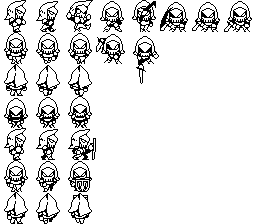
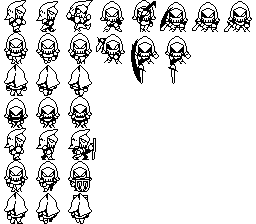
combat mode attack animations first pass

Changed region(s): [[0.625, 0.1562, 0.75, 0.375], [0.5, 0.1875, 0.5625, 0.375]]

diff --git a/src/lib/input.py b/src/lib/input.py
@@ -1,18 +1,77 @@
+_buttons = {}
 _controls = {}
+timings = {}
+
+BUTTON_LEFT = "left"
+BUTTON_RIGHT = "right"
+BUTTON_UP = "up"
+BUTTON_DOWN = "down"
+BUTTON_A = "a"
+BUTTON_B = "b"
+BUTTON_X = "x"
+BUTTON_Y = "y"
+BUTTON_L = "l"
+BUTTON_R = "r"
+BUTTON_START = "start"
+BUTTON_SELECT = "select"
+
+CONTROLS_CONFIRM = "confirm"
+CONTROLS_CANCEL = "cancel"
+CONTROLS_MANAGE = "manage"
+CONTROLS_RUN = "run"
+CONTROLS_TURN = "turn"
+CONTROLS_ITEM = "item"
+CONTROLS_WAIT = "wait"
+CONTROLS_SHORTCUT = "shortcut"
+CONTROLS_ALLY = "ally"
+CONTROLS_SKILL = "skill"
+CONTROLS_INVENTORY = "inventory"
+CONTROLS_PAUSE = "pause"
+CONTROLS_MINIMAP = "minimap"
+
 ARROW_DELTAS = {
-  "left": (-1, 0),
-  "right": (1, 0),
-  "up": (0, -1),
-  "down": (0, 1),
+  BUTTON_LEFT: (-1, 0),
+  BUTTON_RIGHT: (1, 0),
+  BUTTON_UP: (0, -1),
+  BUTTON_DOWN: (0, 1),
 }
 
-def config(controls):
-  global _controls
-  _controls = controls
+def config(buttons=None, controls=None):
+  global _buttons, _controls
+  _buttons = buttons or _buttons
+  _controls = controls or _controls
 
 def resolve_button(button):
-  return _controls[button] if button in _controls else None
+  return next((k for k, bs in _buttons.items() if button in bs), None)
 
 def resolve_delta(button):
   button = resolve_button(button)
   return ARROW_DELTAS[button] if button in ARROW_DELTAS else None
+
+def handle_press(button):
+  button = resolve_button(button)
+  if button is not None and button not in timings:
+    timings[button] = 1
+
+def handle_release(button):
+  button = resolve_button(button)
+  if button is not None:
+    del timings[button]
+
+def get_state(control):
+  if type(control) is list:
+    button = None
+    for button in _controls[control]:
+      if not get_state(button):
+        return 0
+    else:
+      if button:
+        return get_state(button)
+      else:
+        return 0
+  else:
+    return timings[control] if control in timings else 0
+
+def update():
+  for button in timings:
+    timings[button] += 1

diff --git a/src/contexts/combat.py b/src/contexts/combat.py
@@ -7,6 +7,7 @@ from contexts.dungeon.camera import Camera
 from contexts.explore.stageview import StageView
 from tiles import Tile
 from anims.move import MoveAnim
+from anims.attack import AttackAnim
 from anims.step import StepAnim
 from config import WINDOW_SIZE
 
@@ -60,20 +61,40 @@ class CombatContext(Context):
       ctx.hero.pos = hero_dest
 
   def handle_press(ctx, button):
-    if button and ctx.stage_view.anims:
+    if ctx.stage_view.anims:
       return
 
     delta = input.resolve_delta(button)
     if delta:
       return ctx.handle_move(delta)
 
+    button = input.resolve_button(button)
+    if input.get_state(button) > 1:
+      return
+
+    if button == input.BUTTON_A:
+      return ctx.handle_attack()
+
   def handle_move(ctx, delta):
-    return ctx.move(ctx.hero, delta)
+    moved = ctx.move(ctx.hero, delta)
+    if moved:
+      return True
+    else:
+      ctx.hero.facing = delta
+      return False
 
   def move(ctx, actor, delta):
     target_cell = vector.add(actor.cell, delta)
+
     target_tile = ctx.stage.get_tile_at(target_cell)
     if Tile.is_solid(target_tile):
+      return False
+
+    target_elem = (
+      next((e for e in ctx.stage.get_elems_at(target_cell) if e.solid), None)
+      or next((e for e in ctx.stage.get_elems_at(target_cell)), None)
+    )
+    if target_elem and target_elem.solid:
       return False
 
     ctx.stage_view.anims.append([StepAnim(
@@ -82,3 +103,18 @@ class CombatContext(Context):
       dest=target_cell,
     )])
     actor.cell = target_cell
+    return True
+
+  def handle_attack(ctx):
+    attack_delay = (ctx.hero.core.AttackAnim.frames_duration[0]
+      if "AttackAnim" in dir(ctx.hero.core) and ctx.hero.facing == (0, 1)
+      else 0
+    )
+    ctx.stage_view.anims.append([AttackAnim(
+      target=ctx.hero,
+      delay=attack_delay,
+      src=ctx.hero.cell,
+      dest=vector.add(ctx.hero.cell, ctx.hero.facing),
+    )])
+    ctx.hero.attack()
+    return True

diff --git a/src/contexts/explore/__init__.py b/src/contexts/explore/__init__.py
@@ -11,16 +11,37 @@ from dungeon.actors import DungeonActor
 from tiles import Tile
 from config import WINDOW_SIZE
 
-input.config({
-  pygame.K_w: "up",
-  pygame.K_a: "left",
-  pygame.K_s: "down",
-  pygame.K_d: "right",
-  pygame.K_UP: "up",
-  pygame.K_LEFT: "left",
-  pygame.K_DOWN: "down",
-  pygame.K_RIGHT: "right",
-})
+input.config(
+  buttons={
+    input.BUTTON_UP: [pygame.K_UP, pygame.K_w],
+    input.BUTTON_LEFT: [pygame.K_LEFT, pygame.K_a],
+    input.BUTTON_DOWN: [pygame.K_DOWN, pygame.K_s],
+    input.BUTTON_RIGHT: [pygame.K_RIGHT, pygame.K_d],
+    input.BUTTON_A: [pygame.K_RETURN, pygame.K_SPACE],
+    input.BUTTON_B: [pygame.K_RSHIFT, pygame.K_LSHIFT],
+    input.BUTTON_X: [pygame.K_q],
+    input.BUTTON_Y: [pygame.K_e],
+    input.BUTTON_L: [pygame.K_TAB],
+    input.BUTTON_R: [pygame.K_LALT, pygame.K_RALT],
+    input.BUTTON_START: [pygame.K_ESCAPE, pygame.K_BACKSPACE],
+    input.BUTTON_SELECT: [pygame.K_BACKQUOTE, pygame.K_BACKSLASH],
+  },
+  controls={
+    input.CONTROLS_CONFIRM: [input.BUTTON_A],
+    input.CONTROLS_CANCEL: [input.BUTTON_B],
+    input.CONTROLS_MANAGE: [input.BUTTON_Y],
+    input.CONTROLS_RUN: [input.BUTTON_B],
+    input.CONTROLS_TURN: [input.BUTTON_R],
+    input.CONTROLS_ITEM: [input.BUTTON_R, input.BUTTON_X],
+    input.CONTROLS_WAIT: [input.BUTTON_R, input.BUTTON_A],
+    input.CONTROLS_SHORTCUT: [input.BUTTON_R, input.BUTTON_Y],
+    input.CONTROLS_ALLY: [input.BUTTON_L],
+    input.CONTROLS_SKILL: [input.BUTTON_Y],
+    input.CONTROLS_INVENTORY: [input.BUTTON_X],
+    input.CONTROLS_PAUSE: [input.BUTTON_START],
+    input.CONTROLS_MINIMAP: [input.BUTTON_SELECT],
+  }
+)
 
 class ExploreContext(Context):
   COMBAT_THRESHOLD = 112

diff --git a/src/contexts/app.py b/src/contexts/app.py
@@ -8,6 +8,7 @@ from pygame.transform import scale
 from pygame.time import get_ticks
 import lib.keyboard as keyboard
 import lib.gamepad as gamepad
+import lib.input as input
 from lib.sprite import Sprite
 import game.controls as controls
 import assets
@@ -97,6 +98,7 @@ class App(Context):
   def update(app):
     keyboard.update()
     gamepad.update()
+    input.update()
     if app.paused:
       return
     try:
@@ -253,6 +255,7 @@ class App(Context):
   def handle_press(app, button=None):
     if button:
       keyboard.handle_press(button)
+      input.handle_press(button)
       tapping = keyboard.get_state(button) == 1
       ctrl = (keyboard.get_state(pygame.K_LCTRL)
         or keyboard.get_state(pygame.K_RCTRL))
@@ -291,3 +294,4 @@ class App(Context):
     if app.child:
       app.child.handle_release(key)
     keyboard.handle_release(key)
+    input.handle_release(key)

diff --git a/src/dungeon/actors/__init__.py b/src/dungeon/actors/__init__.py
@@ -8,7 +8,7 @@ from cores import Core
 
 from colors import darken_color
 from colors.palette import BLACK, WHITE, GRAY, RED, GREEN, BLUE, CYAN, VIOLET, GOLD, DARKBLUE
-from assets import assets
+import assets
 from lib.filters import replace_color, darken_image
 from anims.step import StepAnim
 from anims.attack import AttackAnim
@@ -480,6 +480,9 @@ class DungeonActor(DungeonElement):
         actor_height *= anim_yscale
       if isinstance(anim, FrameAnim) and not is_animating and not move_anim:
         sprite.image = anim.frame()
+        actor_width, actor_height = sprite.image.get_size()
+        offset_x += (actor_width - TILE_SIZE) / 2
+        offset_y += (actor_height - TILE_SIZE) / 2
         is_animating = True
 
     warpin_anim = next((a for a in anim_group if type(a) is WarpInAnim), None)

diff --git a/src/cores/knight.py b/src/cores/knight.py
@@ -34,12 +34,18 @@ class Knight(BipedCore):
 
   class BrandishAnim(FrameAnim):
     frames = assets.sprites["knight_brandish"]
-    frames_duration = [8, 8, 6]
+    frames_duration = [8, 8, 6, 15, 30]
 
   class IdleDownAnim(FrameAnim):
     frames = assets.sprites["knight_idle_down"]
     frames_duration = 30
     loop = True
+
+  class AttackAnim(FrameAnim):
+    frames_duration = [6, 8, 10]
+
+  class AttackDownAnim(AttackAnim):
+    frames = assets.sprites["knight_attack_down"]
 
   class ChargeAnim(ShakeAnim): pass
 

diff --git a/src/dungeon/actors/knight.py b/src/dungeon/actors/knight.py
@@ -36,6 +36,10 @@ class Knight(DungeonActor):
     super().charge(*args, **kwargs)
     knight.core.anims.append(KnightCore.ChargeAnim())
 
+  def attack(knight):
+    if knight.facing == (0, 1):
+      knight.core.anims = [KnightCore.AttackDownAnim()]
+
   def block(knight):
     if knight.core.anims:
       return

diff --git a/src/contexts/explore/stage.py b/src/contexts/explore/stage.py
@@ -19,7 +19,7 @@ class Stage:
     return None
 
   def get_elems_at(stage, cell):
-    return []
+    return [e for e in stage.elems if e.cell == cell]
 
   def spawn_elem_at(stage, cell, elem):
     elem.spawn(stage, cell)
